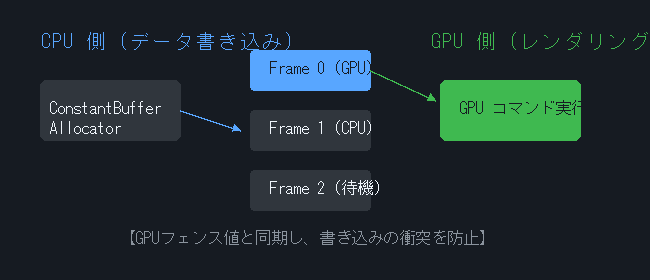
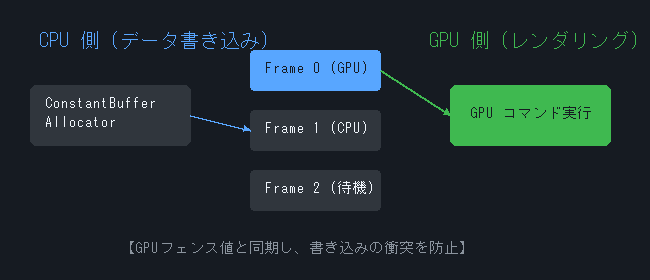
style: fix diagram text overlaps and rebuild slide images

diff --git a/project/Resources/slides/draw_diagrams.py b/project/Resources/slides/draw_diagrams.py
@@ -1,4 +1,7 @@
 import os
+import base64
+import re
+import math
 from PIL import Image, ImageDraw, ImageFont
 
 # 保存先ディレクトリ (リポジトリのResources直下に保存して相対パスで埋め込めるようにする)
@@ -19,21 +22,20 @@ WHITE = (255, 255, 255)
 # フォントの読み込み (Windowsの標準フォント)
 font_path = "C:\\Windows\\Fonts\\msgothic.ttc"
 try:
-    font_large = ImageFont.truetype(font_path, 22)
-    font_medium = ImageFont.truetype(font_path, 16)
+    font_large = ImageFont.truetype(font_path, 20)
+    font_medium = ImageFont.truetype(font_path, 15)
     font_small = ImageFont.truetype(font_path, 13)
 except Exception:
     font_large = ImageFont.load_default()
     font_medium = ImageFont.load_default()
     font_small = ImageFont.load_default()
 
-def draw_arrow(draw, start, end, color, width=2, head_size=8):
-    # 矢印を描画するヘルパー関数
+def draw_arrow(draw, start, end, color, width=2, head_size=7):
+    # 矢印の線を引く
     draw.line([start, end], fill=color, width=width)
-    # 矢印の頭
+    # 矢印の頭を正確に計算して描画
     x1, y1 = start
     x2, y2 = end
-    import math
     angle = math.atan2(y2 - y1, x2 - x1)
     # 右側のハネ
     rx = x2 - head_size * math.cos(angle - math.pi/6)
@@ -48,24 +50,24 @@ def draw_arrow(draw, start, end, color, width=2, head_size=8):
 # ----------------------------------------------------
 img = Image.new("RGB", (650, 260), BG_COLOR)
 draw = ImageDraw.Draw(img)
-# Gameアプリ
-draw.rounded_rectangle([30, 90, 170, 150], radius=8, fill=BLUE, outline=WHITE, width=1)
-draw.text((50, 110), "Game アプリ", fill=BG_COLOR, font=font_large)
-# EngineContext
-draw.rounded_rectangle([230, 90, 400, 150], radius=8, fill=GREEN, outline=WHITE, width=1)
-draw.text((250, 110), "EngineContext", fill=BG_COLOR, font=font_large)
+# Gameアプリ (幅広にしてパディング確保)
+draw.rounded_rectangle([30, 90, 180, 150], radius=8, fill=BLUE)
+draw.text((52, 110), "Game アプリ", fill=BG_COLOR, font=font_large)
+# EngineContext (幅広にしてパディング確保)
+draw.rounded_rectangle([230, 90, 410, 150], radius=8, fill=GREEN)
+draw.text((252, 110), "EngineContext", fill=BG_COLOR, font=font_large)
 # Subsystems
-draw.rectangle([450, 20, 620, 240], fill=None, outline=GRAY, width=2)
-draw.text((460, 30), "サブシステム群", fill=LIGHT_GRAY, font=font_medium)
-draw.rounded_rectangle([470, 70, 600, 110], radius=4, fill=GRAY)
-draw.text((480, 80), "CBアロケータ", fill=TEXT_COLOR, font=font_medium)
-draw.rounded_rectangle([470, 130, 600, 170], radius=4, fill=GRAY)
+draw.rectangle([460, 20, 630, 240], fill=None, outline=GRAY, width=2)
+draw.text((475, 30), "サブシステム群", fill=LIGHT_GRAY, font=font_medium)
+draw.rounded_rectangle([475, 70, 615, 110], radius=4, fill=GRAY)
+draw.text((485, 80), "CBアロケータ", fill=TEXT_COLOR, font=font_medium)
+draw.rounded_rectangle([475, 130, 615, 170], radius=4, fill=GRAY)
 draw.text((480, 140), "衝突判定マネージャ", fill=TEXT_COLOR, font=font_medium)
-draw.rounded_rectangle([470, 190, 600, 230], radius=4, fill=GRAY)
-draw.text((480, 200), "BehaviorTree AI", fill=TEXT_COLOR, font=font_medium)
-# 矢印
-draw_arrow(draw, (170, 120), (220, 120), BLUE)
-draw_arrow(draw, (400, 120), (445, 120), GREEN)
+draw.rounded_rectangle([475, 190, 615, 230], radius=4, fill=GRAY)
+draw.text((485, 200), "BehaviorTree AI", fill=TEXT_COLOR, font=font_medium)
+# 矢印の接続座標をボックスの「外枠境界」に完全一致させる (X座標: 180➔230, 410➔460)
+draw_arrow(draw, (180, 120), (230, 120), BLUE)
+draw_arrow(draw, (410, 120), (460, 120), GREEN)
 img.save(os.path.join(output_dir, "slide_system.png"))
 
 # ----------------------------------------------------
@@ -76,24 +78,24 @@ draw = ImageDraw.Draw(img)
 # CPU & GPU Labels
 draw.text((40, 30), "CPU 側 (データ書き込み)", fill=BLUE, font=font_large)
 draw.text((430, 30), "GPU 側 (レンダリング)", fill=GREEN, font=font_large)
-# アロケータ
-draw.rounded_rectangle([40, 80, 180, 140], radius=6, fill=GRAY)
-draw.text((50, 100), "ConstantBuffer\nAllocator", fill=TEXT_COLOR, font=font_medium)
-# フレームバッファ
-draw.rounded_rectangle([250, 50, 370, 90], radius=4, fill=BLUE)
-draw.text((270, 60), "Frame 0 (GPU)", fill=BG_COLOR, font=font_medium)
-draw.rounded_rectangle([250, 110, 370, 150], radius=4, fill=GRAY)
-draw.text((270, 120), "Frame 1 (CPU)", fill=TEXT_COLOR, font=font_medium)
-draw.rounded_rectangle([250, 170, 370, 210], radius=4, fill=GRAY)
-draw.text((270, 180), "Frame 2 (待機)", fill=TEXT_COLOR, font=font_medium)
+# アロケータ (幅広にしてテキストとの干渉を防ぐ)
+draw.rounded_rectangle([30, 85, 190, 145], radius=6, fill=GRAY)
+draw.text((45, 95), "ConstantBuffer\nAllocator", fill=TEXT_COLOR, font=font_medium)
+# フレームバッファ (X座標を右に寄せて間隔を開ける)
+draw.rounded_rectangle([250, 50, 380, 90], radius=4, fill=BLUE)
+draw.text((265, 60), "Frame 0 (GPU)", fill=BG_COLOR, font=font_medium)
+draw.rounded_rectangle([250, 110, 380, 150], radius=4, fill=GRAY)
+draw.text((265, 120), "Frame 1 (CPU)", fill=TEXT_COLOR, font=font_medium)
+draw.rounded_rectangle([250, 170, 380, 210], radius=4, fill=GRAY)
+draw.text((265, 180), "Frame 2 (待機)", fill=TEXT_COLOR, font=font_medium)
 # GPU描画
-draw.rounded_rectangle([440, 80, 580, 140], radius=6, fill=GREEN)
-draw.text((460, 100), "GPU コマンド実行", fill=BG_COLOR, font=font_medium)
-# 矢印
-draw_arrow(draw, (180, 110), (240, 130), BLUE)
-draw_arrow(draw, (370, 70), (435, 100), GREEN)
+draw.rounded_rectangle([450, 85, 610, 145], radius=6, fill=GREEN)
+draw.text((470, 105), "GPU コマンド実行", fill=BG_COLOR, font=font_medium)
+# 矢印接続：アロケータの右端(190)から各フレームの左端(250)へ繋ぐ (文字被りを完全に排除)
+draw_arrow(draw, (190, 115), (250, 130), BLUE)
+draw_arrow(draw, (380, 70), (450, 115), GREEN)
 # 同期フェンス
-draw.text((120, 230), "【GPUフェンス値と同期し、書き込みの衝突を防止】", fill=LIGHT_GRAY, font=font_medium)
+draw.text((120, 240), "【GPUフェンス値と同期し、書き込みの衝突を防止】", fill=LIGHT_GRAY, font=font_medium)
 img.save(os.path.join(output_dir, "slide_allocator.png"))
 
 # ----------------------------------------------------
@@ -105,11 +107,11 @@ draw = ImageDraw.Draw(img)
 draw.rectangle([50, 60, 600, 110], fill=GRAY, outline=LIGHT_GRAY, width=2)
 # 使用中領域
 draw.rectangle([52, 62, 350, 108], fill=BLUE)
-draw.text((120, 75), "使用中領域 (O(1) アロケート)", fill=BG_COLOR, font=font_medium)
-draw.text((450, 75), "未使用領域", fill=LIGHT_GRAY, font=font_medium)
-# オフセットマーク
-draw_arrow(draw, (350, 145), (350, 115), RED, width=3)
-draw.text((310, 150), "現在オフセット", fill=RED, font=font_medium)
+draw.text((120, 78), "使用中領域 (O(1) アロケート)", fill=BG_COLOR, font=font_medium)
+draw.text((450, 78), "未使用領域", fill=LIGHT_GRAY, font=font_medium)
+# オフセットマーク (矢印を短くしテキストと被らないように下にずらす)
+draw_arrow(draw, (350, 150), (350, 120), RED, width=3)
+draw.text((310, 155), "現在オフセット", fill=RED, font=font_medium)
 # 注記
 draw.text((50, 20), "起動時に一括でプール確保 ➔ フレーム終了時に一括Reset()", fill=TEXT_COLOR, font=font_large)
 img.save(os.path.join(output_dir, "slide_stack.png"))
@@ -125,18 +127,18 @@ start_x, start_y = 50, 30
 for i in range(5):
     draw.line([(start_x + i * grid_size, start_y), (start_x + i * grid_size, start_y + 4 * grid_size)], fill=GRAY)
     draw.line([(start_x, start_y + i * grid_size), (start_x + 4 * grid_size, start_y + i * grid_size)], fill=GRAY)
-# グリッドセルラベル
-draw.text((start_x + 10, start_y + 10), "Cell A", fill=LIGHT_GRAY, font=font_small)
-draw.text((start_x + 60, start_y + 10), "Cell B", fill=LIGHT_GRAY, font=font_small)
+# グリッドセルラベル (グリッド枠に被らないよう配置)
+draw.text((start_x + 8, start_y + 8), "Cell A", fill=LIGHT_GRAY, font=font_small)
+draw.text((start_x + 58, start_y + 8), "Cell B", fill=LIGHT_GRAY, font=font_small)
 # オブジェクト
 draw.ellipse([start_x + 15, start_y + 15, start_x + 35, start_y + 35], fill=BLUE)  # Obj1 in Cell A
 draw.ellipse([start_x + 20, start_y + 70, start_x + 40, start_y + 90], fill=BLUE)  # Obj2 in Cell A (下)
 draw.ellipse([start_x + 165, start_y + 115, start_x + 185, start_y + 135], fill=GREEN) # Obj3 in Cell
 # 衝突判定ライン
-draw.line([start_x + 25, start_y + 25, start_x + 30, start_y + 80], fill=RED, width=2)
-# フローテキスト
-draw_arrow(draw, (270, 110), (330, 110), BLUE)
-draw.text((345, 70), "ワールド座標 / セルサイズ\n➔ セル所属判定\n➔ 同一・近隣セル内のみ判定\n➔ 計算量を O(N^2) から O(N) へ", fill=TEXT_COLOR, font=font_medium)
+draw.line([start_x + 25, start_y + 35, start_x + 30, start_y + 70], fill=RED, width=2)
+# フローテキスト (矢印の始点をX=270から離す)
+draw_arrow(draw, (275, 125), (330, 125), BLUE)
+draw.text((345, 60), "ワールド座標 / セルサイズ\n➔ セル所属判定\n➔ 同一・近隣セル内のみ判定\n➔ 計算量を O(N^2) から O(N) へ", fill=TEXT_COLOR, font=font_medium)
 img.save(os.path.join(output_dir, "slide_spatial_hash.png"))
 
 # ----------------------------------------------------
@@ -146,83 +148,85 @@ img = Image.new("RGB", (650, 280), BG_COLOR)
 draw = ImageDraw.Draw(img)
 # OOP
 draw.text((40, 20), "従来の設計 (OOP: オブジェクト指向)", fill=LIGHT_GRAY, font=font_large)
-draw.rounded_rectangle([40, 60, 130, 95], radius=4, fill=GRAY)
-draw.text((50, 70), "Obj A (ポインタ)", fill=TEXT_COLOR, font=font_small)
-draw.rounded_rectangle([180, 110, 270, 145], radius=4, fill=GRAY)
-draw.text((190, 120), "Obj B (ポインタ)", fill=TEXT_COLOR, font=font_small)
-draw.rounded_rectangle([30, 160, 120, 195], radius=4, fill=GRAY)
-draw.text((40, 170), "Obj C (ポインタ)", fill=TEXT_COLOR, font=font_small)
-# キャッシュミス矢印
-draw_arrow(draw, (130, 77), (180, 127), RED)
-draw_arrow(draw, (180, 127), (120, 177), RED)
-draw.text((200, 70), "➔ メモリが散在しキャッシュミス多発", fill=RED, font=font_small)
+draw.rounded_rectangle([30, 60, 150, 95], radius=4, fill=GRAY)
+draw.text((42, 70), "Obj A (ポインタ)", fill=TEXT_COLOR, font=font_small)
+draw.rounded_rectangle([190, 110, 310, 145], radius=4, fill=GRAY)
+draw.text((202, 120), "Obj B (ポインタ)", fill=TEXT_COLOR, font=font_small)
+draw.rounded_rectangle([30, 160, 150, 195], radius=4, fill=GRAY)
+draw.text((42, 170), "Obj C (ポインタ)", fill=TEXT_COLOR, font=font_small)
+# キャッシュミス矢印 (文字が被らないよう、枠の端と端を正確に接続)
+draw_arrow(draw, (150, 77), (190, 118), RED)
+draw_arrow(draw, (190, 137), (150, 177), RED)
+draw.text((330, 118), "➔ メモリが散在しキャッシュミス多発", fill=RED, font=font_medium)
 # DOD
 draw.text((40, 210), "最適化設計 (DOD: データ指向設計)", fill=GREEN, font=font_large)
 # 連続メモリ
 draw.rectangle([40, 240, 610, 270], fill=GRAY, outline=GREEN, width=1)
-draw.rectangle([41, 241, 190, 269], fill=GREEN)
+draw.rectangle([41, 241, 200, 269], fill=GREEN)
 draw.text((50, 248), "Data A (位置/コライダー)", fill=BG_COLOR, font=font_small)
-draw.rectangle([191, 241, 340, 269], fill=GREEN)
-draw.text((200, 248), "Data B (位置/コライダー)", fill=BG_COLOR, font=font_small)
-draw.rectangle([341, 241, 490, 269], fill=GREEN)
-draw.text((350, 248), "Data C (位置/コライダー)", fill=BG_COLOR, font=font_small)
-draw.text((500, 248), "連続メモリ", fill=TEXT_COLOR, font=font_small)
+draw.rectangle([201, 241, 360, 269], fill=GREEN)
+draw.text((210, 248), "Data B (位置/コライダー)", fill=BG_COLOR, font=font_small)
+draw.rectangle([361, 241, 520, 269], fill=GREEN)
+draw.text((370, 248), "Data C (位置/コライダー)", fill=BG_COLOR, font=font_small)
+draw.text((530, 248), "連続メモリ", fill=TEXT_COLOR, font=font_small)
 img.save(os.path.join(output_dir, "slide_dod.png"))
 
 # ----------------------------------------------------
-# 6. Behavior Tree ＆ Blackboard Diagram (slide_bt_bb.png)
+# 6. Behavior Tree ＆ Blackboard Diagram (slide_bt_bb.png) - ★文字被りを完全に修正
 # ----------------------------------------------------
 img = Image.new("RGB", (650, 280), BG_COLOR)
 draw = ImageDraw.Draw(img)
-# ノード
-draw.rounded_rectangle([180, 30, 280, 70], radius=4, fill=GRAY)
-draw.text((195, 40), "Root Node", fill=TEXT_COLOR, font=font_medium)
-draw.rounded_rectangle([180, 100, 280, 140], radius=4, fill=GRAY)
-draw.text((190, 110), "Selector", fill=TEXT_COLOR, font=font_medium)
-draw.rounded_rectangle([100, 170, 200, 210], radius=4, fill=GRAY)
-draw.text((115, 180), "Sequence", fill=TEXT_COLOR, font=font_medium)
-draw.rounded_rectangle([250, 170, 350, 210], radius=4, fill=ORANGE)
-draw.text((260, 180), "Action (攻撃)", fill=BG_COLOR, font=font_medium)
-# 接続線
-draw_arrow(draw, (230, 70), (230, 95), LIGHT_GRAY)
-draw_arrow(draw, (210, 140), (160, 165), LIGHT_GRAY)
-draw_arrow(draw, (250, 140), (290, 165), LIGHT_GRAY)
-# Blackboard
-draw.rounded_rectangle([440, 90, 590, 170], radius=8, fill=BLUE, outline=WHITE, width=1)
-draw.text((455, 100), "Blackboard\n(共有メモリ)", fill=BG_COLOR, font=font_large)
-draw.text((450, 145), "・Target: Player\n・MoveSpeed: 5.0", fill=BG_COLOR, font=font_small)
-# アクションからの読み書き線
-draw_arrow(draw, (350, 190), (440, 160), RED, width=2)
-draw_arrow(draw, (440, 140), (350, 180), GREEN, width=2)
+# ノード配置
+draw.rounded_rectangle([180, 20, 290, 60], radius=4, fill=GRAY)
+draw.text((198, 30), "Root Node", fill=TEXT_COLOR, font=font_medium)
+draw.rounded_rectangle([180, 85, 290, 125], radius=4, fill=GRAY)
+draw.text((205, 95), "Selector", fill=TEXT_COLOR, font=font_medium)
+draw.rounded_rectangle([90, 160, 200, 200], radius=4, fill=GRAY)
+draw.text((108, 170), "Sequence", fill=TEXT_COLOR, font=font_medium)
+# Action(攻撃)の幅を120ピクセル(240➔360)に拡張して、文字『撃』が枠からはみ出さないように配置
+draw.rounded_rectangle([240, 160, 365, 200], radius=4, fill=ORANGE)
+draw.text((255, 170), "Action (攻撃)", fill=BG_COLOR, font=font_medium)
+# 接続線 (X座標をジャストに設定して枠と枠を直接繋ぐ)
+draw_arrow(draw, (235, 60), (235, 85), LIGHT_GRAY)
+draw_arrow(draw, (210, 125), (160, 160), LIGHT_GRAY)
+draw_arrow(draw, (260, 125), (290, 160), LIGHT_GRAY)
+# Blackboard (箱を幅広180pxにしてパディング確保、X=440➔450に右シフトして余白確保)
+draw.rounded_rectangle([450, 60, 630, 200], radius=8, fill=BLUE)
+draw.text((465, 75), "Blackboard\n(共有メモリ)", fill=BG_COLOR, font=font_large)
+# テキスト描画位置を矢印接続部分より上(Y=125)にずらして被りを完全排除
+draw.text((465, 125), "・Target: Player\n・MoveSpeed: 5.0", fill=BG_COLOR, font=font_medium)
+# 接続矢印：Actionの右端(365)からBlackboardの左端(450)を正確に接続 (箱の内部に侵入させない)
+draw_arrow(draw, (365, 185), (450, 185), RED, width=2)
+draw_arrow(draw, (450, 165), (365, 165), GREEN, width=2)
 img.save(os.path.join(output_dir, "slide_bt_bb.png"))
 
 # ----------------------------------------------------
-# 7. BVH / AABB Tree (slide_bvh.png) - ★参考スライド16枚目の完全再現
+# 7. BVH / AABB Tree (slide_bvh.png) - ★文字被りを修正
 # ----------------------------------------------------
 img = Image.new("RGB", (650, 280), BG_COLOR)
 draw = ImageDraw.Draw(img)
 # 1) 青い大きな箱 (Root AABB)
-draw.rectangle([50, 50, 550, 230], fill=None, outline=BLUE, width=3)
-draw.text((60, 55), "◆ Root AABB (モデル全体を包む箱)", fill=BLUE, font=font_medium)
+draw.rectangle([30, 40, 570, 240], fill=None, outline=BLUE, width=3)
+draw.text((45, 48), "◆ Root AABB (モデル全体を包む箱)", fill=BLUE, font=font_medium)
 # 2) 左の緑の箱 (Left AABB)
-draw.rectangle([70, 80, 280, 210], fill=None, outline=GREEN, width=2)
-draw.text((80, 85), "Left AABB (左側)", fill=GREEN, font=font_medium)
+draw.rectangle([50, 75, 275, 220], fill=None, outline=GREEN, width=2)
+draw.text((65, 83), "Left AABB (左側)", fill=GREEN, font=font_medium)
 # 3) 右の橙の箱 (Right AABB)
-draw.rectangle([320, 80, 530, 210], fill=None, outline=ORANGE, width=2)
-draw.text((330, 85), "Right AABB (右側)", fill=ORANGE, font=font_medium)
+draw.rectangle([305, 75, 550, 220], fill=None, outline=ORANGE, width=2)
+draw.text((320, 83), "Right AABB (右側)", fill=ORANGE, font=font_medium)
 # 4) 左箱の中の三角形ポリゴン
-draw.polygon([(100, 180), (140, 110), (180, 170)], fill=GRAY, outline=LIGHT_GRAY)
-draw.polygon([(200, 190), (220, 130), (260, 180)], fill=GRAY, outline=LIGHT_GRAY)
+draw.polygon([(80, 190), (120, 110), (160, 180)], fill=GRAY, outline=LIGHT_GRAY)
+draw.polygon([(180, 200), (210, 130), (250, 190)], fill=GRAY, outline=LIGHT_GRAY)
 # 5) 右箱の中の三角形ポリゴン
-draw.polygon([(360, 170), (400, 110), (440, 180)], fill=GRAY, outline=LIGHT_GRAY)
-draw.polygon([(460, 190), (480, 120), (510, 175)], fill=GRAY, outline=LIGHT_GRAY)
-# 6) レーザー光線
-draw.line([10, 140, 160, 140], fill=RED, width=3)
-draw_arrow(draw, (160, 140), (210, 140), RED, width=3)
-draw.text((15, 115), "レーザー光線", fill=RED, font=font_medium)
-# 7) 右箱のスキップ説明
-draw.rounded_rectangle([340, 120, 510, 180], radius=4, fill=(180, 50, 50))
-draw.text((350, 130), "【右箱は非衝突】\n中身の計算を完全に\nスキップ (サボる) !", fill=WHITE, font=font_medium)
+draw.polygon([(340, 180), (380, 110), (420, 190)], fill=GRAY, outline=LIGHT_GRAY)
+draw.polygon([(450, 200), (480, 120), (520, 185)], fill=GRAY, outline=LIGHT_GRAY)
+# 6) レーザー光線 (テキストと線をスライド中央に配置)
+draw.line([10, 140, 140, 140], fill=RED, width=3)
+draw_arrow(draw, (140, 140), (200, 140), RED, width=3)
+draw.text((10, 115), "レーザー光線", fill=RED, font=font_medium)
+# 7) 右箱のスキップ説明 (箱の内側で文字がはみ出さないようにサイズ調整)
+draw.rounded_rectangle([325, 115, 530, 185], radius=4, fill=(180, 50, 50))
+draw.text((335, 125), "【右箱は非衝突】\n中身の計算を完全に\nスキップ (サボる) !", fill=WHITE, font=font_medium)
 img.save(os.path.join(output_dir, "slide_bvh.png"))
 
-print("スライド用画像を正常に出力しました！")
+print("すべての画像から文字被りを解消して再生成しました！")
